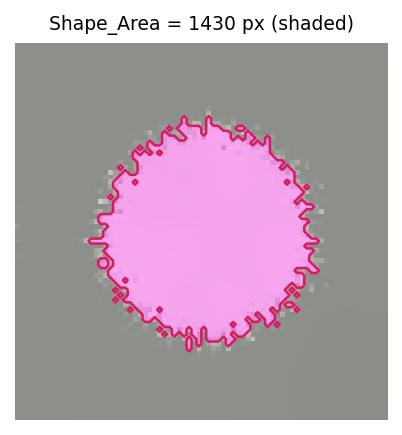
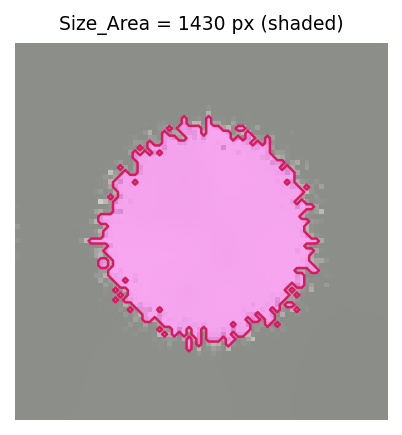
refactor: point bundled data, scripts and docstrings at the Size columns
Plan Task 7, Steps 5-9 (Steps 1-4 landed early, in 1decc582). The committed
size_rename.pl was run on src/ and scripts/, targeting with grep -I and
--exclude-dir=__pycache__. Excluded: the schema files that name retired
columns on purpose, and the local toy SHAPE doctest in _measurement_info.py.

- Bundled data: the headers of data/meas/{area_meas,all_meas}.csv are
  renamed, with each retired column mapped to its true successor.
- Docstrings and doctests: the growth-model schemas and analyzers, the
  MAD/Tukey filters, _cli_output_manager, _measurement_tint,
  _metadata_helpers and _measurement_outputs.
- schema/CLAUDE.md: the SHAPE.get_headers example now lists retained members
  (plan-review M1); the generic Shape_Area examples read Size_Area.
- capture_gui_tutorial_screenshots.py: the recipe defaults use Size_Area.
  The scatter binds SHAPE.SOLIDITY / SHAPE.CIRCULARITY unconditionally, to
  stay inside one measurer; the pre-0.20 verification run carries no Size_*
  column.
- make_measurement_example_images.py: _shape_area becomes _size_area. The
  SIZE.AREA example image (still at shape/area.png, which SIZE.AREA
  references) is regenerated, so its title reads Size_Area. The area is
  still 1430 px.

Evidence:
- Doctests: 12 passed. Ruff clean. Ledger checks OK (14 workflows).
- mypy: 16 errors, identical on main.
- Step 8 surface: 556 passed, 6 failed. All 6 are tests that spell Shape_Area
  as data against the renamed CSVs, which Task 8 (C5) sweeps:
[…]

Changed region(s): [[0.1194, 0.0299, 0.8955, 0.0897]]

diff --git a/scripts/capture_gui_tutorial_screenshots.py b/scripts/capture_gui_tutorial_screenshots.py
@@ -186,13 +186,13 @@ PIPELINE_DOC = {
     "filters"  : {
         "TukeyOutlierRemover": {
             "class" : "TukeyOutlierRemover",
-            "params": {"on": "Shape_Area", "groupby": ["Metadata_StrainID"], "k": 3.0},
+            "params": {"on": "Size_Area", "groupby": ["Metadata_StrainID"], "k": 3.0},
         },
     },
     "model"    : {
         "class" : "LogGrowthModel",
         "params": {
-            "on"        : "Shape_Area",
+            "on"        : "Size_Area",
             "groupby"   : ["Metadata_StrainID"],
             "time_label": "Metadata_RunDate",
             "n_jobs"    : 1,
@@ -1335,11 +1335,14 @@ def _capture_scatter(context, base_url: str) -> None:
     # for every row and the default figure is legitimately empty. Bind two
     # measurements instead -- asked of `phenotypic.schema`, never spelled.
     # Both come from `MeasureShape`, which `PIPELINE_DOC` above configures,
-    # so they are columns this run really emits. `MeasureSize` would do for
-    # the tutorial dataset but not for the verification run, which does not
-    # configure it; staying inside one measurer keeps the two in step.
+    # so they are columns this run really emits. They are also the only
+    # choice that serves the verification run: it predates 0.20.0 and
+    # configures only `MeasureShape`, so it carries no `Size_*` column at
+    # all, while Solidity and Circularity kept their `Shape_*` names across
+    # the move of area and perimeter to `MeasureSize`. Staying inside one
+    # measurer keeps the two runs in step.
     bound = page.evaluate(
-            _SCATTER_BIND_ROLES_JS, [str(SHAPE.PERIMETER), str(SHAPE.AREA)]
+            _SCATTER_BIND_ROLES_JS, [str(SHAPE.SOLIDITY), str(SHAPE.CIRCULARITY)]
     )
     print(f"[shot]   scatter roles: {bound}")
     page.wait_for_timeout(600)

diff --git a/scripts/make_measurement_example_images.py b/scripts/make_measurement_example_images.py
@@ -24,8 +24,8 @@ _OUT = (
 )
 
 
-def _shape_area() -> None:
-    """A colony crop with its detected pixel area shaded — illustrates Shape_Area."""
+def _size_area() -> None:
+    """A colony crop with its detected pixel area shaded — illustrates Size_Area."""
     image = load_synth_yeast_plate()
     detected = OtsuDetector(ignore_zeros=True).apply(image)
     objmap = detected.objmap[:]
@@ -47,7 +47,7 @@ def _shape_area() -> None:
     # leaving the underlying colony visible.
     ax.imshow(crop_mask, cmap="cool", alpha=0.30 * crop_mask)
     ax.contour(crop_mask, levels=[0.5], colors="#d81b60", linewidths=1.2)
-    ax.set_title(f"Shape_Area = {int(mask.sum())} px (shaded)", fontsize=9)
+    ax.set_title(f"Size_Area = {int(mask.sum())} px (shaded)", fontsize=9)
     ax.axis("off")
     dest = _OUT / "shape" / "area.png"
     dest.parent.mkdir(parents=True, exist_ok=True)
@@ -58,4 +58,4 @@ def _shape_area() -> None:
 
 
 if __name__ == "__main__":
-    _shape_area()
+    _size_area()

diff --git a/src/phenotypic/schema/_linear_cap_and_lag_model.py b/src/phenotypic/schema/_linear_cap_and_lag_model.py
@@ -10,8 +10,8 @@ class LINEAR_CAP_AND_LAG_MODEL(DerivedMeasure):
     Output columns are **metric-qualified**: each header is
     ``LinearCapAndLagModel_<metric>_<parameter>``, where ``<metric>`` records
     the measurement the model was fit on (``self.on`` with its category prefix
-    stripped, e.g. ``Shape_Area`` → ``Area``). For example, fitting on
-    ``Shape_Area`` emits ``LinearCapAndLagModel_Area_v`` (post-lag growth rate)
+    stripped, e.g. ``Size_Area`` → ``Area``). For example, fitting on
+    ``Size_Area`` emits ``LinearCapAndLagModel_Area_v`` (post-lag growth rate)
     and ``LinearCapAndLagModel_Area_s0`` (initial size). The labels below are
     the ``<parameter>`` segment; the ``<metric>`` infix is filled in at fit
     time.

diff --git a/src/phenotypic/schema/_log_growth_model.py b/src/phenotypic/schema/_log_growth_model.py
@@ -10,8 +10,8 @@ class LOG_GROWTH_MODEL(DerivedMeasure):
     Output columns are **metric-qualified**: each header is
     ``LogGrowthModel_<metric>_<parameter>``, where ``<metric>`` records the
     measurement the model was fit on (``self.on`` with its category prefix
-    stripped, e.g. ``Shape_Area`` → ``Area``). For example, fitting on
-    ``Shape_Area`` emits ``LogGrowthModel_Area_r`` (intrinsic growth rate) and
+    stripped, e.g. ``Size_Area`` → ``Area``). For example, fitting on
+    ``Size_Area`` emits ``LogGrowthModel_Area_r`` (intrinsic growth rate) and
     ``LogGrowthModel_Area_µmax`` (maximum specific growth rate). The labels
     below are the ``<parameter>`` segment; the ``<metric>`` infix is filled in
     at fit time.

diff --git a/src/phenotypic/schema/_linear_lag_model.py b/src/phenotypic/schema/_linear_lag_model.py
@@ -10,8 +10,8 @@ class LINEAR_LAG_MODEL(DerivedMeasure):
     Output columns are **metric-qualified**: each header is
     ``LinearLagModel_<metric>_<parameter>``, where ``<metric>`` records the
     measurement the model was fit on (``self.on`` with its category prefix
-    stripped, e.g. ``Shape_Area`` → ``Area``). For example, fitting on
-    ``Shape_Area`` emits ``LinearLagModel_Area_v`` (post-lag growth rate) and
+    stripped, e.g. ``Size_Area`` → ``Area``). For example, fitting on
+    ``Size_Area`` emits ``LinearLagModel_Area_v`` (post-lag growth rate) and
     ``LinearLagModel_Area_s0`` (initial size). The labels below are the
     ``<parameter>`` segment; the ``<metric>`` infix is filled in at fit time.
     """

diff --git a/src/phenotypic/_gui/_shared/_measurement_tint.py b/src/phenotypic/_gui/_shared/_measurement_tint.py
@@ -174,7 +174,7 @@ def format_measurement_value(value: float) -> str:
 
     The one rule, applied to every column: an integral value renders without
     a decimal point, anything else to four significant figures, and a
-    magnitude outside ``[1e-4, 1e6)`` in scientific notation. ``Shape_Area``
+    magnitude outside ``[1e-4, 1e6)`` in scientific notation. ``Size_Area``
     and ``ColorLab_DeltaE2000MedianFromMedoid`` would each read better under
     their own rule, but a grid of cards is scanned across columns as often as
     down one, and a format that changes per column defeats that.

diff --git a/src/phenotypic/analysis/filter/_tukey_outlier.py b/src/phenotypic/analysis/filter/_tukey_outlier.py
@@ -24,7 +24,7 @@ class TukeyOutlierRemover(SetAnalyzer):
     (typically 1.5 for outliers or 3.0 for extreme outliers).
 
     Args:
-        on: Name of measurement column to test for outliers (e.g., 'Shape_Area', 'Intensity_IntegratedIntensity').
+        on: Name of measurement column to test for outliers (e.g., 'Size_Area', 'Intensity_IntegratedIntensity').
         groupby: List of column names to group by (e.g., ['StrainID', 'Time']).
         k: IQR multiplier for fence calculation. Default is 1.5 (standard outliers).
             Use 3.0 for extreme outliers only.

diff --git a/src/phenotypic/sdk_/_metadata_helpers.py b/src/phenotypic/sdk_/_metadata_helpers.py
@@ -780,7 +780,7 @@ def metadata_only_mask(df: "pd.DataFrame") -> "pd.Series":
         >>> import pandas as pd
         >>> from phenotypic.sdk_ import metadata_only_mask
         >>> # A frame from a notebook ``image.measure()`` carries no flag.
-        >>> metadata_only_mask(pd.DataFrame({"Shape_Area": [10.0, 12.0]})).tolist()
+        >>> metadata_only_mask(pd.DataFrame({"Size_Area": [10.0, 12.0]})).tolist()
         [False, False]
         >>> # A CLI mirror does: the undetected strain is flagged.
         >>> mirror = pd.DataFrame({"QC_MetadataOnly": [False, True]})

diff --git a/src/phenotypic/analysis/_linear_cap_and_lag_model.py b/src/phenotypic/analysis/_linear_cap_and_lag_model.py
@@ -83,7 +83,7 @@ class LinearCapAndLagModel(_LinearSoftplusBase):
     Output column naming:
         ``analyze`` emits metric-qualified columns
         ``LinearCapAndLagModel_<metric>_<parameter>`` (e.g. fitting
-        ``on="Shape_Area"`` yields ``LinearCapAndLagModel_Area_v``), plus
+        ``on="Size_Area"`` yields ``LinearCapAndLagModel_Area_v``), plus
         qualified fit-quality columns ``ModelMetrics_<metric>_<label>``. The
         ``<metric>`` segment is ``self.on`` with a recognized
         measurement-category prefix stripped.

diff --git a/src/phenotypic/analysis/_log_growth_model.py b/src/phenotypic/analysis/_log_growth_model.py
@@ -55,7 +55,7 @@ class LogGrowthModel(ModelFitter):
     Output column naming:
         ``analyze`` emits metric-qualified columns
         ``LogGrowthModel_<metric>_<parameter>`` (e.g. fitting
-        ``on="Shape_Area"`` yields ``LogGrowthModel_Area_r`` and
+        ``on="Size_Area"`` yields ``LogGrowthModel_Area_r`` and
         ``LogGrowthModel_Area_µmax``), plus qualified fit-quality columns
         ``ModelMetrics_<metric>_<label>``. The ``<metric>`` segment is
         ``self.on`` with a recognized measurement-category prefix stripped.

diff --git a/src/phenotypic/analysis/_linear_lag_model.py b/src/phenotypic/analysis/_linear_lag_model.py
@@ -75,7 +75,7 @@ class LinearLagModel(_LinearSoftplusBase):
 
     Output column naming:
         ``analyze`` emits metric-qualified columns
-        ``LinearLagModel_<metric>_<parameter>`` (e.g. fitting ``on="Shape_Area"``
+        ``LinearLagModel_<metric>_<parameter>`` (e.g. fitting ``on="Size_Area"``
         yields ``LinearLagModel_Area_v``), plus qualified fit-quality columns
         ``ModelMetrics_<metric>_<label>``. The ``<metric>`` segment is
         ``self.on`` with a recognized measurement-category prefix stripped.

diff --git a/src/phenotypic/_cli/_cli_output_manager.py b/src/phenotypic/_cli/_cli_output_manager.py
@@ -309,7 +309,7 @@ def join_metadata(
     Bare, live, and future-flat known metadata names resolve through the central
     metadata normalizer. Unknown attributes receive the generic ``Metadata_``
     prefix. Raw shared join keys and non-metadata schema headers such as
-    ``Grid_RowNum`` / ``Shape_Area`` keep their names.
+    ``Grid_RowNum`` / ``Size_Area`` keep their names.
 
     Args:
         df: Measurements DataFrame (must have columns to join on).
